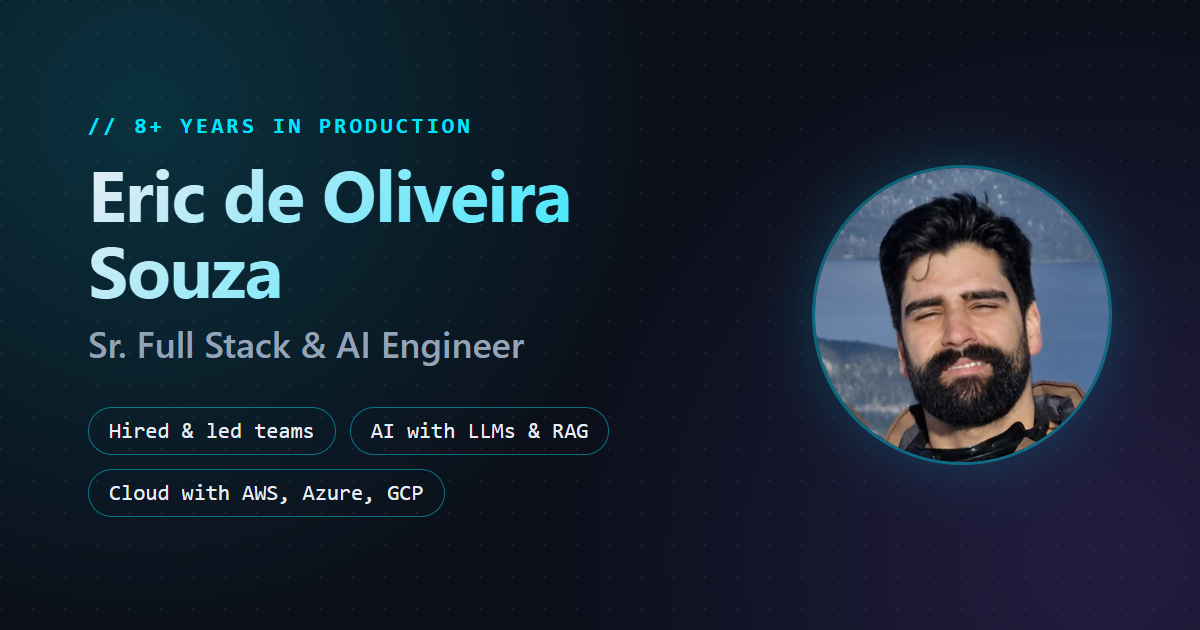
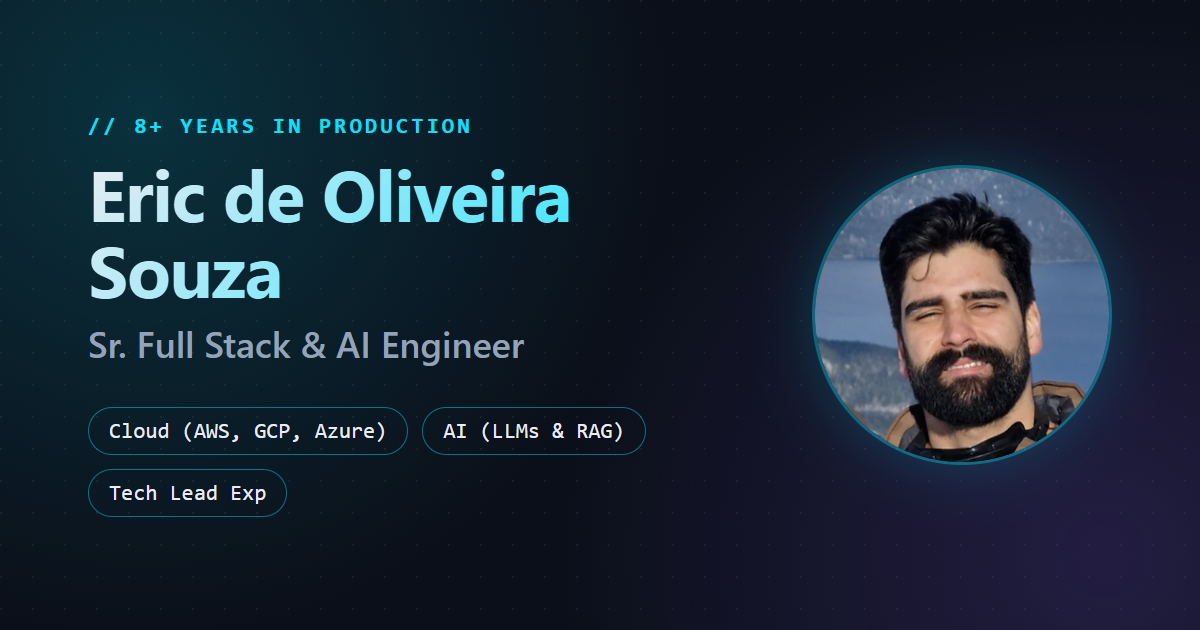
Shorter, smaller highlight chips on one line; refresh the OG image.

Changed region(s): [[0.0925, 0.6635, 0.5242, 0.7238], [0.0925, 0.754, 0.37, 0.8143]]

diff --git a/scripts/generate-og-image.js b/scripts/generate-og-image.js
@@ -8,7 +8,7 @@ import { chromium } from '@playwright/test';
 const publicDir = fileURLToPath(new URL('../public/', import.meta.url));
 const avatar = (await readFile(`${publicDir}avatar.webp`)).toString('base64');
 
-const highlights = ['Hired & led teams', 'AI with LLMs & RAG', 'Cloud with AWS, Azure, GCP'];
+const highlights = ['Cloud (AWS, GCP, Azure)', 'AI (LLMs & RAG)', 'Tech Lead Exp'];
 
 const html = `<!doctype html>
 <html><head><style>

diff --git a/src/components/sections/Hero.tsx b/src/components/sections/Hero.tsx
@@ -118,9 +118,10 @@ export function Hero() {
                 <Chip
                   key={highlight}
                   label={highlight}
+                  size="small"
                   sx={{
                     fontFamily: monoFont,
-                    fontSize: '0.8rem',
+                    fontSize: '0.72rem',
                     borderColor: 'primary.dark',
                   }}
                   variant="outlined"

diff --git a/src/data/profile.ts b/src/data/profile.ts
@@ -21,11 +21,12 @@ export const profile: Profile = {
     medium: 'https://medium.com/@eric.bh18souza',
   },
   highlights: [
-    'Web with JS/TS and Python',
-    'AI with LLMs & RAG',
-    'Cloud with AWS, Azure, GCP',
-    'Hired & led teams',
-    '5+ industries',
+    'Cloud (AWS, GCP, Azure)',
+    'AI (LLMs & RAG)',
+    'JS/TS',
+    'Python',
+    'Founding Engineer Exp',
+    'Tech Lead Exp',
   ],
 };
 
